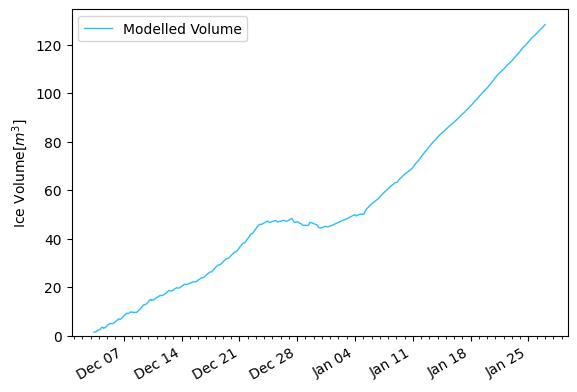
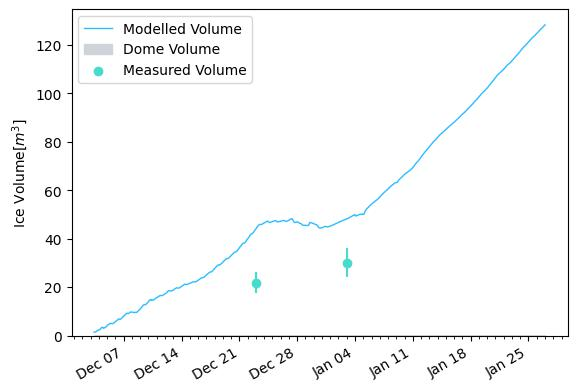
Guttannen22 results produced

diff --git a/src/models/methods/calibration.py b/src/models/methods/calibration.py
@@ -16,14 +16,14 @@ logger = logging.getLogger(__name__)
 
 # @cache_it(limit=1000, expire=None)
 def get_calibration(site, input):
-    if site in ["guttannen21", "guttannen20", "gangles21", "diavolezza21"]:
+    if site in ["guttannen21", "guttannen20", "guttannen22", "gangles21", "diavolezza21"]:
         df_c = pd.read_csv(
-            input + site + "_drone.csv",
+            input + "drone.csv",
             sep=",",
             header=0,
-            parse_dates=["When"],
+            parse_dates=["time"],
         )
-        df_c = df_c.rename(columns={"When": "time"})
+        # df_c = df_c.rename(columns={"When": "time"})
         df_c = df_c.set_index("time")
 
         if site in ["guttannen21", "guttannen20"]:
@@ -70,7 +70,7 @@ def get_calibration(site, input):
 
             return df_c, df_cam
 
-        if site in ["gangles21", "diavolezza21"]:
+        if site in ["gangles21", "diavolezza21", "guttannen22"]:
             df_c = df_c.reset_index()
             return df_c
 
@@ -91,9 +91,9 @@ def get_calibration(site, input):
             {"time": datetime(2020, 1, 1, 17), "DroneV": 0.1, "DroneVError": 0.1},
         ]
         df_c = pd.DataFrame(dataV)
-    if site in ["guttannen22"]:
-        dataV = [
-            {"time": datetime(2021, 12, 3, 12), "DroneV": 0.1, "DroneVError": 0.1},
-        ]
-        df_c = pd.DataFrame(dataV)
-        return df_c
+    # if site in ["guttannen22"]:
+    #     dataV = [
+    #         {"time": datetime(2021, 12, 3, 12), "DroneV": 0.1, "DroneVError": 0.1},
+    #     ]
+    #     df_c = pd.DataFrame(dataV)
+    #     return df_c

diff --git a/src/models/methods/_self_attributes.py b/src/models/methods/_self_attributes.py
@@ -16,9 +16,9 @@ def self_attributes(self):
     logger.info("Initialising Icestupa attributes")
 
     if self.name in ["guttannen21", "guttannen20"]:
-        df_c, df_cam = get_calibration(site=self.name, input=self.raw)
+        df_c, df_cam = get_calibration(site=self.name, input=self.input)
     else:
-        df_c = get_calibration(site=self.name, input=self.raw)
+        df_c = get_calibration(site=self.name, input=self.input)
 
 
     # Get spray radius
@@ -43,7 +43,7 @@ def self_attributes(self):
     # Get initial height
     self.h_i = self.DX + 3 * self.V_dome / (math.pi * self.R_F ** 2)
 
-    if self.name in ["guttannen21", "guttannen20", "gangles21"]:
+    if self.name in ["guttannen21", "guttannen22", "guttannen20", "gangles21"]:
         df_c.to_hdf(
             self.input + "model_input.h5",
             key="df_c",

diff --git a/src/models/methods/_figures.py b/src/models/methods/_figures.py
@@ -208,7 +208,7 @@ def summary_figures(self):
     plt.clf()
 
     """Ice Volume Fig"""
-    if self.name in ["guttannen21", "guttannen20", "gangles21"]:
+    if self.name in ["guttannen21", "guttannen20", "gangles21", "guttannen22"]:
         df_c = pd.read_hdf(self.input + "model_input.h5", "df_c")
         df_c = df_c.rename(columns={"When": "time"})
 
@@ -256,7 +256,7 @@ def summary_figures(self):
         linewidth=1,
         color=CB91_Blue,
     )
-    if self.name in ["guttannen21", "guttannen20", "schwarzsee19", "gangles21"]:
+    if self.name in ["guttannen21", "guttannen22", "guttannen20", "schwarzsee19", "gangles21"]:
         y2 = df_c.DroneV
         yerr = df_c.DroneVError
         ax.fill_between(x, y1=self.V_dome, y2=0, color=grey, label="Dome Volume")

diff --git a/src/utils/pix4d.py b/src/utils/pix4d.py
@@ -1,5 +1,6 @@
 """Convert raw pix4d data to model input format
 """
+
 # External modules
 import sys, os
 import pandas as pd
@@ -40,8 +41,6 @@ if __name__ == "__main__":
     dfr = dfr.set_index("time")
     dfr = dfr[["rad"]]
 
-    print(dfr)
-
     dfv = pd.read_csv(
         FOLDER["raw"] + "drone_vol.csv",
         sep="\t",
@@ -52,7 +51,7 @@ if __name__ == "__main__":
     dfv["DroneVError"] = dfv["DroneV"] * 0.2
     dfv = dfv.set_index("time")
     dfv = dfv[["DroneV", "DroneVError"]]
-    print(dfv)
     df = pd.concat([dfr, dfv], axis=1)
+    df = df.sort_index()
     print(df)
     df.to_csv(FOLDER["input"] + "drone.csv")
